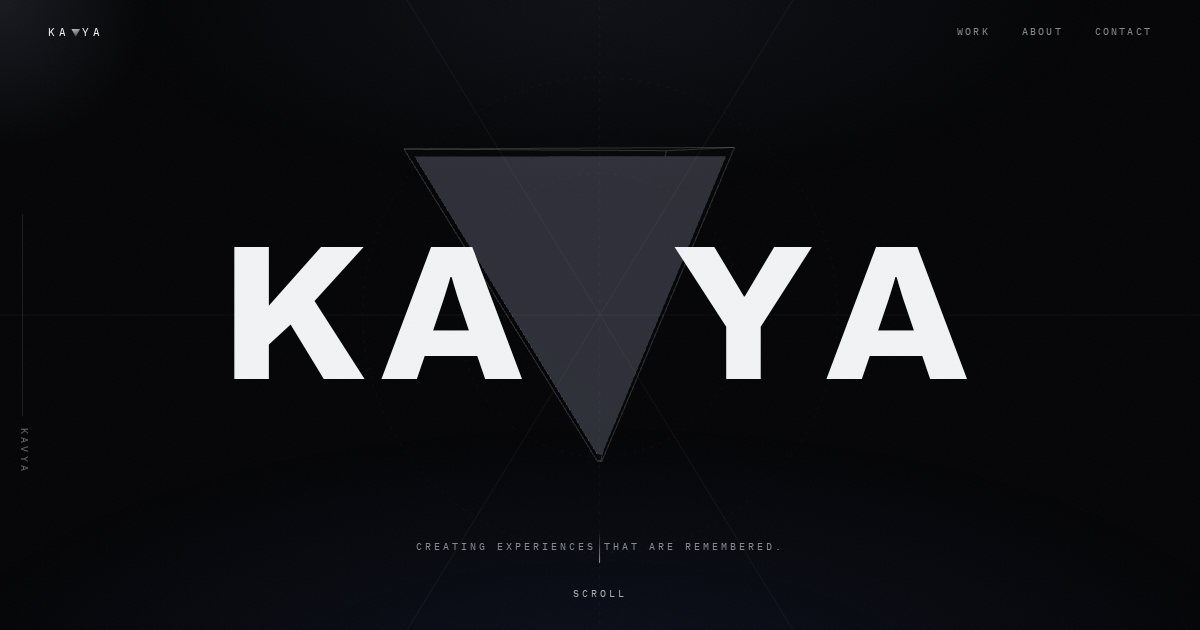
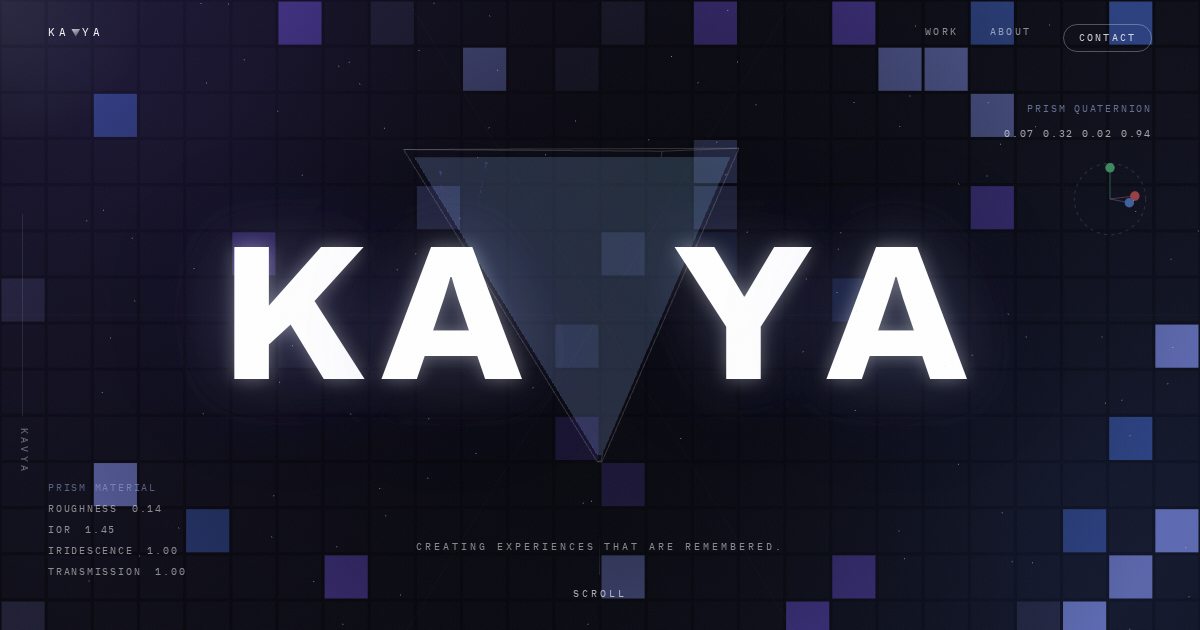
Alche-grade upgrade: LED room, frosted iridescent glass, glowing type, engine HUD, curved project billboards

diff --git a/js/scene.js b/js/scene.js
@@ -8,7 +8,7 @@
    ============================================================ */
 
 const PrismScene = (() => {
-  let scene, prismGroup, prism, wire, frags = [], envRT;
+  let scene, prismGroup, prism, wire, frags = [], envRT, stars, billboard, billMat;
 
   /* procedural studio environment: dark room, one white strip
      light, one deep-blue wall, one silver bounce. This is what
@@ -24,10 +24,11 @@ const PrismScene = (() => {
       m.position.set(...pos); m.rotation.set(...rot);
       envScene.add(m);
     };
-    mk(0xffffff, 14, 3, [0, 8, 0], [Math.PI / 2, 0, 0]);        // ceiling strip
-    mk(0x24406e, 8, 10, [-9, 0, 0], [0, Math.PI / 2, 0]);       // deep blue wall
-    mk(0x8d94a3, 8, 10, [9, 0, 0], [0, -Math.PI / 2, 0]);       // silver wall
-    mk(0x101018, 30, 30, [0, -6, 0], [-Math.PI / 2, 0, 0]);     // floor
+    mk(0xffffff, 16, 4, [0, 8, 0], [Math.PI / 2, 0, 0]);        // ceiling strip
+    mk(0x6a4fd8, 9, 11, [-9, 0, 0], [0, Math.PI / 2, 0]);       // violet wall
+    mk(0x3e5fbf, 9, 11, [9, 0, 0], [0, -Math.PI / 2, 0]);       // blue wall
+    mk(0xd9def0, 6, 7, [0, 0, -10], [0, 0, 0]);                 // bright back panel
+    mk(0x14141e, 30, 30, [0, -6, 0], [-Math.PI / 2, 0, 0]);     // floor
     envRT = new THREE.WebGLCubeRenderTarget(256);
     const cam = new THREE.CubeCamera(0.1, 100, envRT);
     cam.update(renderer, envScene);
@@ -44,19 +45,41 @@ const PrismScene = (() => {
     // inverted triangular prism: wide triangular top, point down
     const geo = new THREE.CylinderGeometry(1.25, 0.02, 2.1, 3, 1).toNonIndexed();
     geo.computeVertexNormals();
+    // streaky frost: canvas noise drives roughness + bump
+    const nc = document.createElement("canvas");
+    nc.width = nc.height = 256;
+    const nx = nc.getContext("2d");
+    nx.fillStyle = "#7a7a7a"; nx.fillRect(0, 0, 256, 256);
+    for (let i = 0; i < 900; i++) {
+      const g = 90 + Math.random() * 130;
+      nx.strokeStyle = `rgba(${g},${g},${g},0.5)`;
+      nx.lineWidth = 0.6 + Math.random() * 1.8;
+      const x = Math.random() * 256, y = Math.random() * 256;
+      nx.beginPath(); nx.moveTo(x, y);
+      nx.lineTo(x + (Math.random() - 0.5) * 26, y + 18 + Math.random() * 42);
+      nx.stroke();
+    }
+    const noiseTex = new THREE.CanvasTexture(nc);
+    noiseTex.wrapS = noiseTex.wrapT = THREE.RepeatWrapping;
+
     const glass = new THREE.MeshPhysicalMaterial({
-      color: 0xf4f6fa,
-      transmission: 0.92,
-      thickness: 1.8,
-      roughness: 0.05,
+      color: 0xffffff,
+      transmission: 1,
+      thickness: 2.2,
+      roughness: 0.14,
+      roughnessMap: noiseTex,
+      bumpMap: noiseTex,
+      bumpScale: 0.012,
       metalness: 0,
       ior: 1.45,
       envMap: env,
-      envMapIntensity: 1.5,
+      envMapIntensity: 2.2,
       clearcoat: 1,
-      clearcoatRoughness: 0.06,
-      attenuationColor: new THREE.Color(0x9fb4e8),
-      attenuationDistance: 3.2,
+      clearcoatRoughness: 0.08,
+      iridescence: 1,
+      iridescenceIOR: 1.6,
+      attenuationColor: new THREE.Color(0xcfd8ff),
+      attenuationDistance: 4.5,
       side: THREE.DoubleSide,
     });
     prism = new THREE.Mesh(geo, glass);
@@ -78,7 +101,71 @@ const PrismScene = (() => {
       frags.push(f);
     }
 
+    // faint star specks drifting in the room
+    const starGeo = new THREE.BufferGeometry();
+    const pts = [];
+    for (let i = 0; i < 220; i++) {
+      pts.push((Math.random() - 0.5) * 22, (Math.random() - 0.5) * 13, -2 - Math.random() * 9);
+    }
+    starGeo.setAttribute("position", new THREE.Float32BufferAttribute(pts, 3));
+    stars = new THREE.Points(starGeo, new THREE.PointsMaterial({
+      color: 0xaebbdd, size: 0.025, transparent: true, opacity: 0.55,
+    }));
+    scene.add(stars);
+
+    // curved project billboard (bent plane, like a wall screen)
+    const bg = new THREE.PlaneGeometry(5.4, 3.1, 32, 1);
+    const pos = bg.attributes.position;
+    for (let i = 0; i < pos.count; i++) {
+      const x = pos.getX(i);
+      pos.setZ(i, -(x * x) * 0.055);
+    }
+    bg.computeVertexNormals();
+    billMat = new THREE.MeshBasicMaterial({ transparent: true, opacity: 0, toneMapped: false });
+    billboard = new THREE.Mesh(bg, billMat);
+    billboard.position.set(1.55, 0.1, -0.6);
+    billboard.rotation.y = -0.22;
+    scene.add(billboard);
+
     return prismGroup;
+  }
+
+  /* generative billboard art per project (replaced by a real
+     image texture automatically when data.image is set) */
+  function projectTexture(pr) {
+    const c = document.createElement("canvas");
+    c.width = 1024; c.height = 588;
+    const x = c.getContext("2d");
+    x.fillStyle = "#0b0b12"; x.fillRect(0, 0, 1024, 588);
+    const rg = x.createRadialGradient(200, 80, 40, 200, 80, 900);
+    rg.addColorStop(0, pr.accent + "55"); rg.addColorStop(1, "transparent");
+    x.fillStyle = rg; x.fillRect(0, 0, 1024, 588);
+    x.strokeStyle = "rgba(255,255,255,0.05)";
+    for (let i = 0; i < 1024; i += 52) { x.beginPath(); x.moveTo(i, 0); x.lineTo(i, 588); x.stroke(); }
+    for (let i = 0; i < 588; i += 52) { x.beginPath(); x.moveTo(0, i); x.lineTo(1024, i); x.stroke(); }
+    // pure visual: the DOM card owns the words, the screen owns the mood
+    x.fillStyle = "rgba(255,255,255,0.08)";
+    x.font = "800 430px Archivo, Arial";
+    x.fillText(pr.num, 560, 500);
+    x.fillStyle = pr.accent + "66";
+    x.fillRect(56, 500, 260, 4);
+    return new THREE.CanvasTexture(c);
+  }
+
+  const billCache = {};
+  function setBillboard(i, k) {
+    if (i != null && billCache[i] === undefined) {
+      const pr = DATA.projects[i];
+      billCache[i] = pr.image
+        ? new THREE.TextureLoader().load(pr.image)
+        : projectTexture(pr);
+    }
+    if (i != null && billMat.map !== billCache[i]) {
+      billMat.map = billCache[i];
+      billMat.needsUpdate = true;
+    }
+    billMat.opacity = k;
+    billboard.visible = k > 0.02;
   }
 
   /* k = 0 fragments hidden inside; k = 1 fully split out */
@@ -96,5 +183,5 @@ const PrismScene = (() => {
     wire.scale.setScalar(1 - k * 0.12);
   }
 
-  return { build, setSplit, group: () => prismGroup };
+  return { build, setSplit, setBillboard, group: () => prismGroup };
 })();

diff --git a/js/app.js b/js/app.js
@@ -47,8 +47,8 @@
     return keys[keys.length - 1][1];
   }
   // prism position x, scale, y across the whole journey
-  const PX = [[0, 0], [0.16, 0], [0.20, 2.1], [0.50, 2.1], [0.545, 0], [0.60, 0], [0.63, -2.2], [0.67, -2.2], [0.71, 0], [0.80, 2.2], [0.845, 2.2], [0.88, 0], [1, 0]];
-  const PSC = [[0, 1], [0.10, 1], [0.18, 0.72], [0.50, 0.72], [0.56, 1.05], [0.62, 0.55], [0.70, 0.9], [0.80, 0.5], [0.87, 0.62], [0.95, 0.5], [1, 0.5]];
+  const PX = [[0, 0], [0.16, 0], [0.20, 3.3], [0.50, 3.3], [0.545, 0], [0.60, 0], [0.63, -2.2], [0.67, -2.2], [0.71, 0], [0.80, 2.2], [0.845, 2.2], [0.88, 0], [1, 0]];
+  const PSC = [[0, 1], [0.10, 1], [0.18, 0.52], [0.50, 0.52], [0.56, 1.05], [0.62, 0.55], [0.70, 0.9], [0.80, 0.5], [0.87, 0.62], [0.95, 0.5], [1, 0.5]];
   const PYY = [[0, 0], [0.86, 0], [0.90, 0.35], [0.94, 0.55], [1, 0.7]];
 
   /* ── DOM build ────────────────────────────────────────────── */
@@ -129,6 +129,43 @@
     return;
   }
 
+  /* the LED room: painted once, sits behind the typography */
+  function paintRoom() {
+    const rc = document.getElementById("room");
+    const w = (rc.width = innerWidth), h = (rc.height = innerHeight);
+    const x = rc.getContext("2d");
+    x.fillStyle = "#07070c"; x.fillRect(0, 0, w, h);
+    const tile = Math.max(46, w / 26);
+    for (let ty = -1; ty < h / tile + 1; ty++) {
+      for (let tx = -1; tx < w / tile + 1; tx++) {
+        const px = tx * tile, py = ty * tile;
+        // edge tiles glow more, centre stays dark for the type
+        const dx = Math.abs(px + tile / 2 - w / 2) / (w / 2);
+        const dy = Math.abs(py + tile / 2 - h / 2) / (h / 2);
+        const edge = Math.max(dx, dy);
+        const r = Math.random();
+        let col = "#0d0d16";
+        if (r > 0.955 - edge * 0.12) col = ["#6a4fd8", "#3e5fbf", "#8f9dff", "#2a2a44"][Math.floor(Math.random() * 4)];
+        x.fillStyle = col;
+        x.globalAlpha = col === "#0d0d16" ? 1 : 0.24 + edge * 0.5;
+        x.fillRect(px + 1.5, py + 1.5, tile - 3, tile - 3);
+        x.globalAlpha = 1;
+      }
+    }
+    // washes + vignette
+    const wg = x.createRadialGradient(w * 0.15, h * 0.1, 60, w * 0.15, h * 0.1, w * 0.7);
+    wg.addColorStop(0, "rgba(106,79,216,0.18)"); wg.addColorStop(1, "transparent");
+    x.fillStyle = wg; x.fillRect(0, 0, w, h);
+    const bg2 = x.createRadialGradient(w * 0.9, h * 0.85, 60, w * 0.9, h * 0.85, w * 0.7);
+    bg2.addColorStop(0, "rgba(62,95,191,0.16)"); bg2.addColorStop(1, "transparent");
+    x.fillStyle = bg2; x.fillRect(0, 0, w, h);
+    const vg = x.createRadialGradient(w / 2, h / 2, h * 0.28, w / 2, h / 2, h * 0.95);
+    vg.addColorStop(0, "rgba(4,4,6,0.55)"); vg.addColorStop(1, "rgba(4,4,6,0.05)");
+    x.fillStyle = vg; x.fillRect(0, 0, w, h);
+  }
+  paintRoom();
+  addEventListener("resize", paintRoom);
+
   const renderer = new THREE.WebGLRenderer({ canvas, antialias: true, alpha: true });
   renderer.setPixelRatio(Math.min(devicePixelRatio || 1, mobile ? 1.5 : 2));
   renderer.outputEncoding = THREE.sRGBEncoding;
@@ -203,7 +240,10 @@
   }
 
   /* ── loop ─────────────────────────────────────────────────── */
-  let pS = 0, t = 0, lastT = performance.now();
+  let pS = 0, t = 0, lastT = performance.now(), hudTick = 0;
+  const quatEl = $("#quat"),
+    gx = $("#gx"), gy = $("#gy"), gz = $("#gz"),
+    gx1 = $("#gx1"), gy1 = $("#gy1"), gz1 = $("#gz1");
   function progress() {
     const doc = document.body.scrollHeight - innerHeight;
     return doc > 0 ? clamp01(scrollY / doc) : 0;
@@ -231,7 +271,33 @@
     PrismScene.setSplit(reduced ? 0 : split, t);
 
     morph(pS);
-    setAct(resolveAct(pS), pS);
+    const act = resolveAct(pS);
+    setAct(act, pS);
+
+    // curved billboard follows the active project
+    const bK = act.project != null
+      ? Math.min(ease(seg(pS, act.from, act.from + 0.025)), ease(seg(act.to, pS, act.to - 0.025)))
+      : 0;
+    PrismScene.setBillboard(act.project, mobile ? 0 : bK * 0.95);
+
+    // engine HUD: live quaternion + axis gizmo
+    hudTick += dt;
+    if (hudTick > 0.12) {
+      hudTick = 0;
+      const q = g.quaternion;
+      quatEl.textContent = `${q.x.toFixed(2)} ${q.y.toFixed(2)} ${q.z.toFixed(2)} ${q.w.toFixed(2)}`;
+      const axes = [
+        [new THREE.Vector3(1, 0, 0), gx, gx1],
+        [new THREE.Vector3(0, 1, 0), gy, gy1],
+        [new THREE.Vector3(0, 0, 1), gz, gz1],
+      ];
+      for (const [v, dot, ln] of axes) {
+        v.applyQuaternion(q);
+        const sx = (v.x * 30).toFixed(1), sy = (-v.y * 30).toFixed(1);
+        dot.setAttribute("cx", sx); dot.setAttribute("cy", sy);
+        ln.setAttribute("x2", sx); ln.setAttribute("y2", sy);
+      }
+    }
 
     // liquid type decay
     dispScale *= Math.exp(-3 * dt);

diff --git a/styles.css b/styles.css
@@ -68,9 +68,10 @@ button { font-family: inherit; cursor: pointer; color: inherit; background: none
 @keyframes trispin { 50% { transform: rotateY(180deg); } 100% { transform: rotateY(360deg); } }
 
 /* ── blueprint scaffold ────────────────────────────────────── */
+#room { position: fixed; inset: 0; width: 100vw; height: 100vh; z-index: 0; pointer-events: none; }
 #scaffold {
   position: fixed; inset: 0; width: 100%; height: 100%;
-  z-index: 0; pointer-events: none;
+  z-index: 1; pointer-events: none; opacity: 0.5;
 }
 #scaffold line, #scaffold circle {
   stroke: rgba(242, 243, 245, 0.07); stroke-width: 1; fill: none;
@@ -98,7 +99,11 @@ button { font-family: inherit; cursor: pointer; color: inherit; background: none
   display: flex; align-items: center;
   font-weight: 800; letter-spacing: 0.06em; line-height: 1;
   font-size: clamp(4.4rem, 16vw, 15rem);
-  color: var(--ink);
+  color: #ffffff;
+  text-shadow:
+    0 0 18px rgba(255, 255, 255, 0.35),
+    0 0 70px rgba(159, 180, 232, 0.28),
+    0 0 140px rgba(106, 79, 216, 0.18);
 }
 #big .vgap { width: clamp(90px, 22vmin, 260px); }
 #big .ch { display: inline-block; will-change: transform, opacity, filter; }
@@ -302,6 +307,37 @@ body.fallback .sr-only-until-fallback {
 body.fallback #doc h1 { font-size: 2rem; line-height: 1.1; margin-bottom: 1rem; }
 body.fallback #doc article { border-top: 1px solid var(--hair); margin-top: 1.6rem; padding-top: 1rem; }
 body.fallback #doc a { color: var(--blue); }
+
+#topnav .pill {
+  border: 1px solid rgba(242,243,245,0.35); border-radius: 999px;
+  padding: 0.55em 1.5em; opacity: 0.85;
+}
+#topnav .pill:hover { background: rgba(242,243,245,0.1); opacity: 1; }
+
+/* engine-editor HUD */
+#hudq {
+  position: fixed; right: var(--pad); top: 16vh; z-index: 90;
+  display: grid; gap: 0.6rem; justify-items: end; text-align: right;
+  letter-spacing: 0.18em; opacity: 0.65;
+}
+#hudq .hl, #hudm .hl { color: var(--blue); opacity: 0.9; }
+#gizmo { width: 84px; height: 84px; margin-top: 0.4rem; }
+#gizmo circle:first-child { stroke: rgba(242,243,245,0.2); stroke-dasharray: 3 4; }
+#gizmo .gx { fill: #e05c5c; stroke: #e05c5c; stroke-width: 1; }
+#gizmo .gy { fill: #58c98a; stroke: #58c98a; stroke-width: 1; }
+#gizmo .gz { fill: #5c8ce0; stroke: #5c8ce0; stroke-width: 1; }
+#gizmo line { opacity: 0.6; }
+#hudm {
+  position: fixed; left: var(--pad); bottom: 8vh; z-index: 90;
+  display: grid; gap: 0.35rem; letter-spacing: 0.18em; opacity: 0.55;
+}
+#hudm b { color: var(--ink); font-weight: 400; margin-left: 0.6em; }
+body[data-act="hero"] #hudm, body[data-act="morph"] #hudm { opacity: 0.55; }
+body:not([data-act="hero"]):not([data-act="morph"]):not([data-act="footer"]) #hudm { opacity: 0; }
+#hudq, #hudm { transition: opacity 0.6s var(--ease); pointer-events: none; }
+@media (max-width: 900px) { #hudq, #hudm { display: none; } }
+/* desktop: the curved WebGL screen is the project visual */
+@media (min-width: 901px) { .pframe { display: none; } .pcard .ghost { display: none; } }
 
 /* ── reduced motion ────────────────────────────────────────── */
 @media (prefers-reduced-motion: reduce) {

diff --git a/index.html b/index.html
@@ -36,6 +36,8 @@
     <circle cx="720" cy="450" r="170" class="dash" />
   </svg>
 
+  <canvas id="room" aria-hidden="true"></canvas>
+
   <main id="runway" aria-hidden="true"></main>
 
   <div id="pin" aria-hidden="true">
@@ -89,9 +91,28 @@
   <nav id="topnav" class="mono" aria-label="Navigation">
     <a href="#" data-jump="0.205">Work</a>
     <a href="#" data-jump="0.64">About</a>
-    <a href="#" data-jump="0.90">Contact</a>
+    <a href="#" data-jump="0.90" class="pill">Contact</a>
   </nav>
   <div id="progress" aria-hidden="true"><i></i></div>
+
+  <!-- engine-editor HUD: live prism telemetry -->
+  <div id="hudq" class="mono" aria-hidden="true">
+    <span class="hl">Prism Quaternion</span>
+    <span id="quat">.00 .00 .00 1.0</span>
+    <svg id="gizmo" viewBox="-40 -40 80 80">
+      <circle r="34" fill="none" />
+      <line id="gx1" x1="0" y1="0" x2="0" y2="0" class="gx" /><circle id="gx" r="4" class="gx" />
+      <line id="gy1" x1="0" y1="0" x2="0" y2="0" class="gy" /><circle id="gy" r="4" class="gy" />
+      <line id="gz1" x1="0" y1="0" x2="0" y2="0" class="gz" /><circle id="gz" r="4" class="gz" />
+    </svg>
+  </div>
+  <div id="hudm" class="mono" aria-hidden="true">
+    <span class="hl">Prism Material</span>
+    <span>roughness <b>0.14</b></span>
+    <span>ior <b>1.45</b></span>
+    <span>iridescence <b>1.00</b></span>
+    <span>transmission <b>1.00</b></span>
+  </div>
   <span id="actname" class="mono" aria-hidden="true"></span>
   <div id="cursorlight" aria-hidden="true"></div>
 
